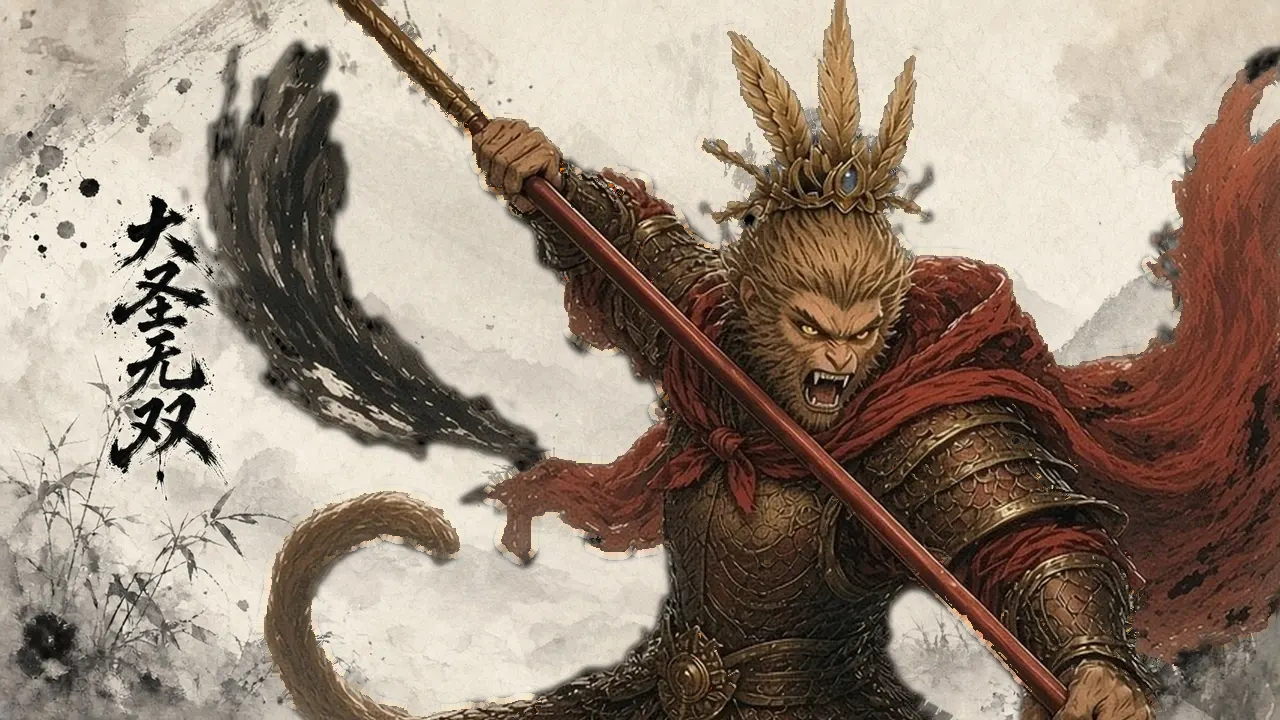
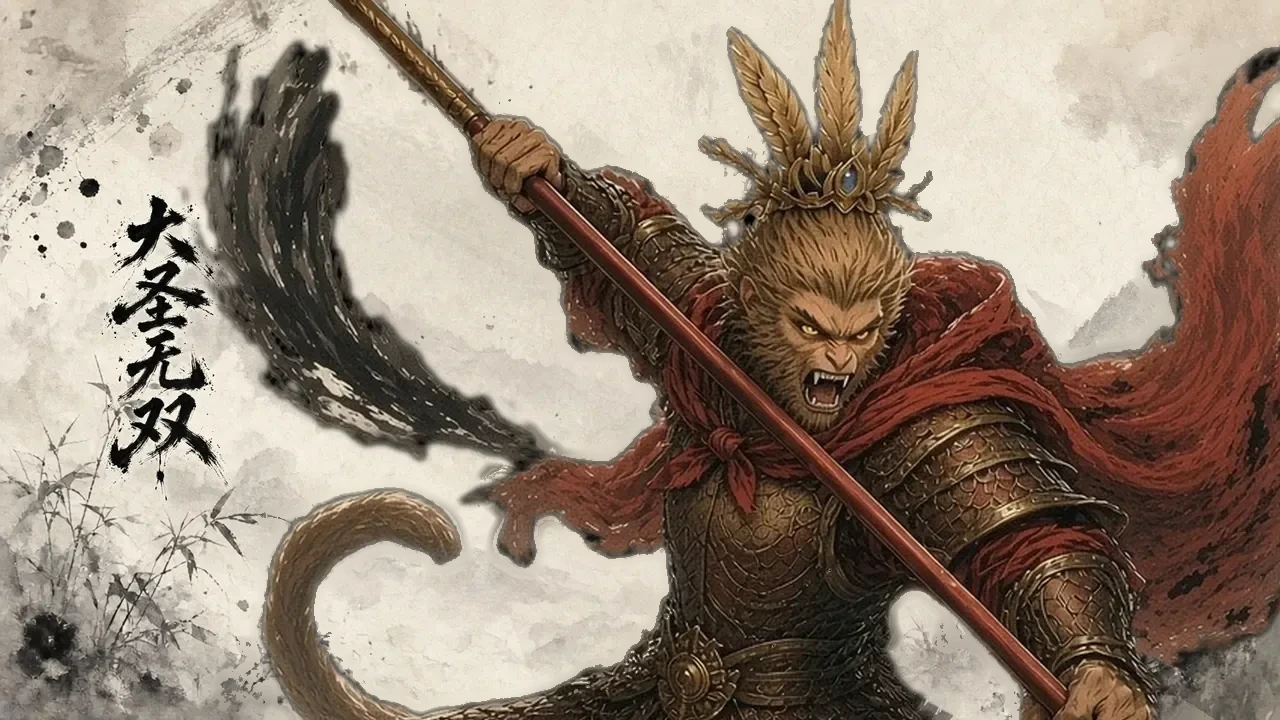
Inpaint the close-up halo and fade the narrow plate at full resolution.
The pale rim on frames 2-4 is filled from the surrounding paper with a full-resolution mask. Narrow and tall screens fade all four edges from a smooth full-size mask instead of a blocky display-size one.

diff --git a/bossfight/ui.js b/bossfight/ui.js
@@ -958,52 +958,88 @@
     return WUCLOSE._p;
   }
   function ensureWuClose() { if (!WUCLOSE._p) preloadWu(); }
-  /* 窄屏：整幅居中，底下是游戏同款宣纸和淡墨，四边用抖动的笔触淡出。脸、棒、尾巴、书法留住。 */
-  function wuBrushMask(im, pw, ph) {
-    var key = (im.src || '') + ':' + pw + 'x' + ph;
+  /* 窄屏：整幅居中铺在宣纸上。淡出在原图像素上生成，四边都透，书法和角色用平滑保护。 */
+  function wuGauss(src, w, h, sigma) {
+    var rad = Math.max(1, Math.ceil(sigma * 3));
+    var kern = new Float32Array(rad * 2 + 1), s2 = 2 * sigma * sigma, sum = 0, i, v;
+    for (i = -rad; i <= rad; i++) { v = Math.exp(-(i * i) / s2); kern[i + rad] = v; sum += v; }
+    for (i = 0; i < kern.length; i++) kern[i] /= sum;
+    var tmp = new Float32Array(w * h), out = new Float32Array(w * h), x, y, k, xx, yy, a;
+    for (y = 0; y < h; y++) {
+      for (x = 0; x < w; x++) {
+        a = 0;
+        for (k = -rad; k <= rad; k++) {
+          xx = x + k; if (xx < 0) xx = 0; else if (xx >= w) xx = w - 1;
+          a += src[y * w + xx] * kern[k + rad];
+        }
+        tmp[y * w + x] = a;
+      }
+    }
+    for (y = 0; y < h; y++) {
+      for (x = 0; x < w; x++) {
+        a = 0;
+        for (k = -rad; k <= rad; k++) {
+          yy = y + k; if (yy < 0) yy = 0; else if (yy >= h) yy = h - 1;
+          a += tmp[yy * w + x] * kern[k + rad];
+        }
+        out[y * w + x] = a;
+      }
+    }
+    return out;
+  }
+  function wuBrushMask(im) {
+    var pw = im.naturalWidth, ph = im.naturalHeight;
+    var key = im.src || (pw + 'x' + ph);
     if (wuBrushMask.cache && wuBrushMask.cache.key === key) return wuBrushMask.cache.cv;
     var cv = document.createElement('canvas');
     cv.width = pw; cv.height = ph;
     var g = cv.getContext('2d', { willReadFrequently: true });
     g.imageSmoothingEnabled = true;
     g.imageSmoothingQuality = 'high';
-    g.drawImage(im, 0, 0, pw, ph);
+    g.drawImage(im, 0, 0);
     var id = g.getImageData(0, 0, pw, ph), d = id.data, n = pw * ph, i, r, gc, b, lum, sat;
-    var keep = new Uint8Array(n);
-    for (i = 0; i < n; i++) {
-      r = d[i * 4]; gc = d[i * 4 + 1]; b = d[i * 4 + 2];
-      lum = (r + gc + b) / 3;
-      sat = Math.max(r, gc, b) - Math.min(r, gc, b);
-      if (sat > 28 || lum < 52) keep[i] = 1;
-    }
-    var dil = new Uint8Array(keep), rad = 7, x, y, dx, dy, xx, yy;
-    for (y = 0; y < ph; y++) {
-      for (x = 0; x < pw; x++) {
-        if (!keep[y * pw + x]) continue;
-        for (dy = -rad; dy <= rad; dy++) {
-          yy = y + dy; if (yy < 0 || yy >= ph) continue;
-          for (dx = -rad; dx <= rad; dx++) {
-            xx = x + dx; if (xx < 0 || xx >= pw) continue;
-            dil[yy * pw + xx] = 1;
-          }
-        }
-      }
-    }
+    var keep = new Float32Array(n), x, y;
     for (y = 0; y < ph; y++) {
       for (x = 0; x < pw; x++) {
         i = y * pw + x;
-        if (dil[i]) { d[i * 4 + 3] = 255; continue; }
-        var dist = Math.min(x + 1, pw - x, y + 1, ph - y);
-        var wob = Math.sin(x * 0.023 + y * 0.017) * 0.52
-          + Math.sin(x * 0.008 + 1.4) * Math.sin(y * 0.013 + 0.6) * 0.36
-          + Math.sin(x * 0.041 - y * 0.029 + 2.2) * 0.3
-          + Math.sin(x * 0.09 + y * 0.07) * 0.2;
-        var brk = Math.sin(x * 0.15 - y * 0.11 + 0.8);
-        var margin = 4 + (wob + 1.15) * 14 + (brk > 0.62 ? 18 : 0);
-        var fade = 26 + (brk > 0.2 ? 12 : 0);
-        var t = (dist - margin) / fade;
-        var a = t <= 0 ? 0 : (t >= 1 ? 1 : t * t * (3 - 2 * t));
-        d[i * 4 + 3] = a < 0 ? 0 : (a > 1 ? 255 : (a * 255) | 0);
+        r = d[i * 4]; gc = d[i * 4 + 1]; b = d[i * 4 + 2];
+        lum = (r + gc + b) / 3;
+        sat = Math.max(r, gc, b) - Math.min(r, gc, b);
+        /* 左边墨迹和上色的身体。灰纸、淡墨底不保护，交给四边淡出。 */
+        if ((lum < 72 && sat < 24 && x < pw * 0.38) || (sat > 34 && r > b + 8 && r > 45) || (b > r + 16 && b > 80)) keep[i] = 1;
+      }
+    }
+    var near = wuGauss(keep, pw, ph, 8);
+    for (i = 0; i < n; i++) {
+      if (keep[i]) continue;
+      r = d[i * 4]; gc = d[i * 4 + 1]; b = d[i * 4 + 2];
+      lum = (r + gc + b) / 3;
+      if (near[i] > 0.12 && lum < 115) keep[i] = 1;
+    }
+    /* 保护罩在全分辨率上高斯羽化，sigma 22px。笔画和身体像素保持不透明。 */
+    var soft = wuGauss(keep, pw, ph, 22), protect = new Float32Array(n);
+    for (i = 0; i < n; i++) protect[i] = keep[i] > 0 ? 1 : Math.min(1, soft[i] / 0.05);
+    protect = wuGauss(protect, pw, ph, 6);
+    for (i = 0; i < n; i++) if (keep[i] > 0) protect[i] = 1;
+    var fadeW = Math.min(pw, ph) * 0.12, dist, nse, reach, t, a, hold;
+    for (y = 0; y < ph; y++) {
+      for (x = 0; x < pw; x++) {
+        i = y * pw + x;
+        dist = Math.min(x, y, pw - 1 - x, ph - 1 - y);
+        nse = Math.sin(x * 0.011 + y * 0.007) * 0.62
+          + Math.sin(x * 0.0042 + 1.3) * Math.sin(y * 0.0055 + 0.6) * 0.5
+          + Math.sin(x * 0.017 - y * 0.013 + 2.0) * 0.38;
+        nse = Math.max(-1, Math.min(1, nse));
+        reach = fadeW * (1 + 0.7 * (nse * 0.5 + 0.5));
+        t = dist / reach;
+        a = t <= 0 ? 0 : (t >= 1 ? 1 : t * t * (3 - 2 * t));
+        if (keep[i] > 0) {
+          var ink = x < pw * 0.38;
+          var m = ink ? reach * 0.45 : reach;
+          var tt = dist / m;
+          a = tt <= 0 ? 0 : (tt >= 1 ? 1 : tt * tt * (3 - 2 * tt));
+        } else if (dist > reach && protect[i] > a) a = protect[i];
+        d[i * 4 + 3] = a <= 0 ? 0 : (a >= 1 ? 255 : (a * 255 + 0.5) | 0);
       }
     }
     g.putImageData(id, 0, 0);
@@ -1043,7 +1079,7 @@
       return;
     }
     paintWuPaper(c, W, H);
-    c.drawImage(wuBrushMask(im, Math.max(1, Math.round(dw)), Math.max(1, Math.round(dh))), x, y);
+    c.drawImage(wuBrushMask(im), x, y, dw, dh);
   }
   function drawWuClose(c) {
     if (!(G.wuCut > 0) || G.wuCutOff) return;
